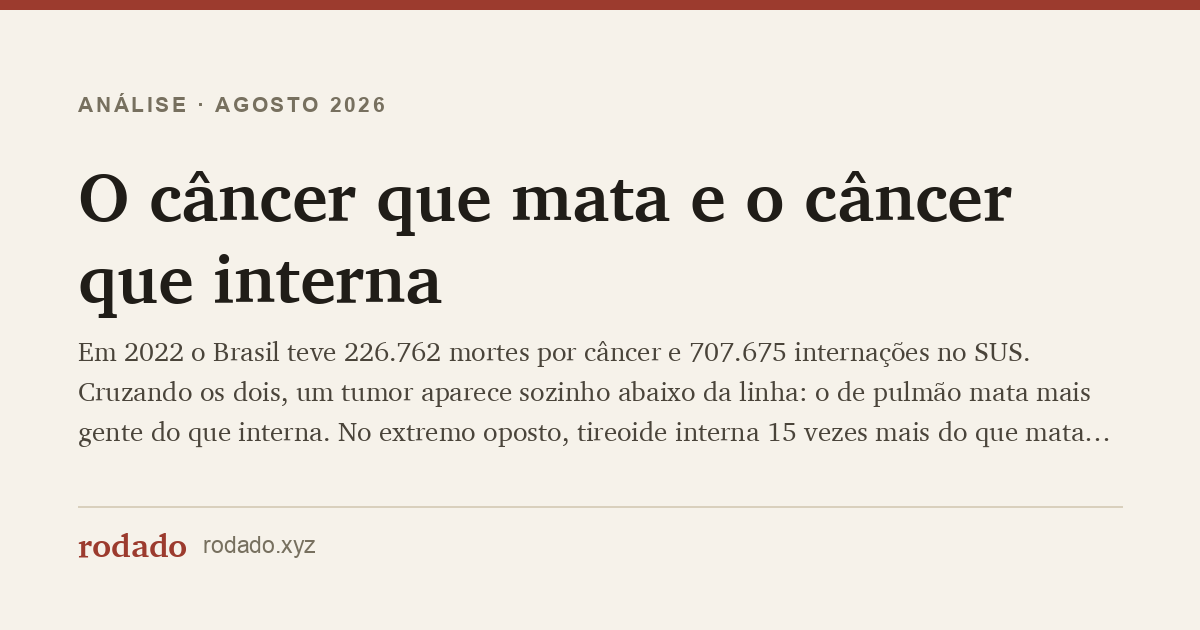
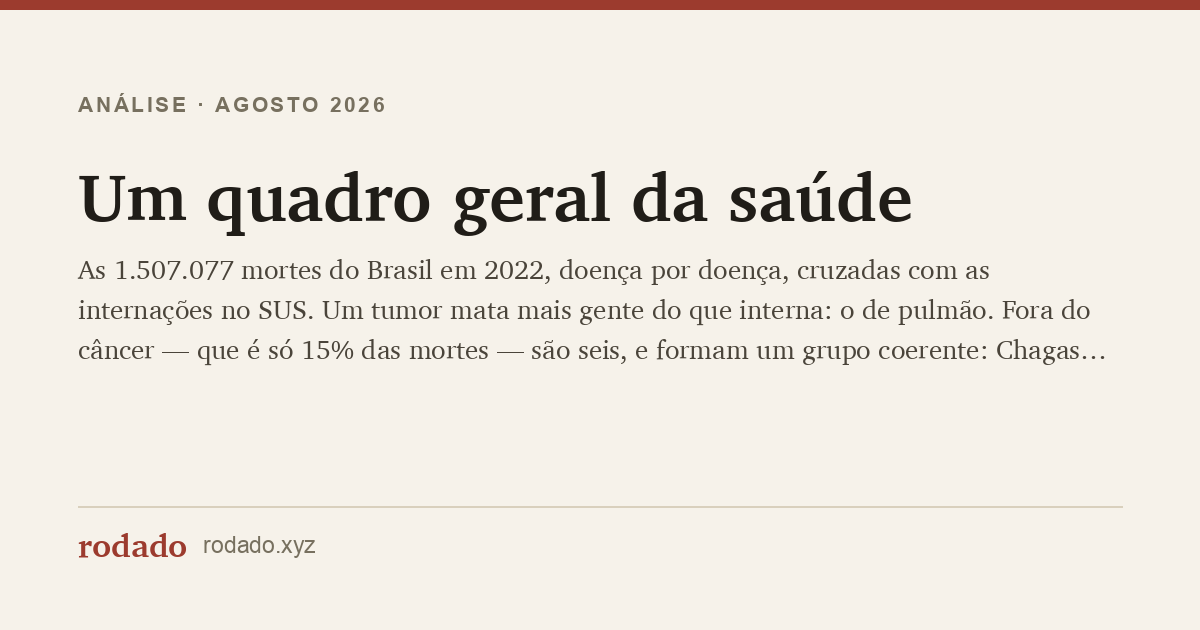
refactor: retitula para "Um quadro geral da saúde" e reorganiza os capítulos
O texto deixou de ser sobre câncer quando ganhou as 1.275.091 mortes não-
câncer: o título e a abertura agora anunciam o país inteiro, e o câncer vira
o ponto de partida em vez do assunto.

Remove "A tabela inteira" — os 27 tumores já estão nas duas figuras, com
mortes, internações, razão e amplitude etária. A metodologia que só existia
no rodapé dela (sítios de sexo único, sítio mal definido, cobertura das
idades) migra para "O que este gráfico não enxerga".

Move "Próstata e mama" para dentro de "Em que idade cada câncer mata": o
argumento é de padronização etária e estava interrompendo o fio da razão
entre internação e morte.

diff --git a/pages/analises/cancer-mata-interna/index.html b/pages/analises/cancer-mata-interna/index.html
@@ -4,23 +4,23 @@
 <meta charset="utf-8">
 <meta name="viewport" content="width=device-width, initial-scale=1">
 <!-- gerado por scripts/gera_analises.py — não editar à mão -->
-<title>O câncer que mata e o câncer que interna — rodado</title>
-<meta name="description" content="Em 2022 o Brasil teve 226.762 mortes por câncer e 707.675 internações no SUS. Cruzando os dois, um tumor aparece sozinho abaixo da linha: o de pulmão mata mais gente do que interna. No extremo oposto, tireoide interna 15 vezes mais do que mata — e isso não é vitória da medicina. E fora do câncer, que é só 15% das mortes do país, a linha tem seis: Chagas, Parkinson e Alzheimer matam mais gente do que chegam a internar, porque para elas o hospital não tem oferta.">
+<title>Um quadro geral da saúde — rodado</title>
+<meta name="description" content="As 1.507.077 mortes do Brasil em 2022, doença por doença, cruzadas com as internações no SUS. Um tumor mata mais gente do que interna: o de pulmão. Fora do câncer — que é só 15% das mortes — são seis, e formam um grupo coerente: Chagas, Parkinson, Alzheimer, pneumonite por aspiração, sequelas de AVC e hipertensão, doenças para as quais o hospital não tem oferta. E a idade separa tudo, de 0 a 86 anos.">
 <!-- seo:start (gerado por scripts/gera_seo.py — não editar à mão) -->
 <link rel="canonical" href="https://rodado.xyz/analises/cancer-mata-interna/">
 <meta property="og:type" content="article">
 <meta property="og:site_name" content="rodado">
 <meta property="og:locale" content="pt_BR">
 <meta property="og:url" content="https://rodado.xyz/analises/cancer-mata-interna/">
-<meta property="og:title" content="O câncer que mata e o câncer que interna">
-<meta property="og:description" content="Em 2022 o Brasil teve 226.762 mortes por câncer e 707.675 internações no SUS. Cruzando os dois, um tumor aparece sozinho abaixo da linha: o de pulmão mata mais gente do que interna. No extremo oposto, tireoide interna 15 vezes mais do que mata — e isso não é vitória da medicina. E fora do câncer, que é só 15% das mortes do país, a linha tem seis: Chagas, Parkinson e Alzheimer matam mais gente do que chegam a internar, porque para elas o hospital não tem oferta.">
+<meta property="og:title" content="Um quadro geral da saúde">
+<meta property="og:description" content="As 1.507.077 mortes do Brasil em 2022, doença por doença, cruzadas com as internações no SUS. Um tumor mata mais gente do que interna: o de pulmão. Fora do câncer — que é só 15% das mortes — são seis, e formam um grupo coerente: Chagas, Parkinson, Alzheimer, pneumonite por aspiração, sequelas de AVC e hipertensão, doenças para as quais o hospital não tem oferta. E a idade separa tudo, de 0 a 86 anos.">
 <meta property="og:image" content="https://rodado.xyz/analises/img/og-cancer-mata-interna.png">
 <meta property="og:image:width" content="1200">
 <meta property="og:image:height" content="630">
-<meta property="og:image:alt" content="O câncer que mata e o câncer que interna — rodado">
+<meta property="og:image:alt" content="Um quadro geral da saúde — rodado">
 <meta name="twitter:card" content="summary_large_image">
-<meta name="twitter:title" content="O câncer que mata e o câncer que interna">
-<meta name="twitter:description" content="Em 2022 o Brasil teve 226.762 mortes por câncer e 707.675 internações no SUS. Cruzando os dois, um tumor aparece sozinho abaixo da linha: o de pulmão mata mais gente do que interna. No extremo oposto, tireoide interna 15 vezes mais do que mata — e isso não é vitória da medicina. E fora do câncer, que é só 15% das mortes do país, a linha tem seis: Chagas, Parkinson e Alzheimer matam mais gente do que chegam a internar, porque para elas o hospital não tem oferta.">
+<meta name="twitter:title" content="Um quadro geral da saúde">
+<meta name="twitter:description" content="As 1.507.077 mortes do Brasil em 2022, doença por doença, cruzadas com as internações no SUS. Um tumor mata mais gente do que interna: o de pulmão. Fora do câncer — que é só 15% das mortes — são seis, e formam um grupo coerente: Chagas, Parkinson, Alzheimer, pneumonite por aspiração, sequelas de AVC e hipertensão, doenças para as quais o hospital não tem oferta. E a idade separa tudo, de 0 a 86 anos.">
 <meta name="twitter:image" content="https://rodado.xyz/analises/img/og-cancer-mata-interna.png">
 <link rel="icon" href="../../assets/favicon.ico" sizes="any">
 <link rel="icon" type="image/png" sizes="32x32" href="../../assets/favicon-32.png">
@@ -29,7 +29,7 @@
 <link rel="manifest" href="https://rodado.xyz/site.webmanifest">
 <meta name="theme-color" content="#9c3b2e">
 <meta name="robots" content="index,follow,max-image-preview:large,max-snippet:-1">
-<script type="application/ld+json">{"@context":"https://schema.org","@type":"Article","headline":"O câncer que mata e o câncer que interna","description":"Em 2022 o Brasil teve 226.762 mortes por câncer e 707.675 internações no SUS. Cruzando os dois, um tumor aparece sozinho abaixo da linha: o de pulmão mata mais gente do que interna. No extremo oposto, tireoide interna 15 vezes mais do que mata — e isso não é vitória da medicina. E fora do câncer, que é só 15% das mortes do país, a linha tem seis: Chagas, Parkinson e Alzheimer matam mais gente do que chegam a internar, porque para elas o hospital não tem oferta.","url":"https://rodado.xyz/analises/cancer-mata-interna/","image":"https://rodado.xyz/analises/img/og-cancer-mata-interna.png","datePublished":"2026-08","inLanguage":"pt-BR","author":{"@type":"Organization","name":"rodado"},"isPartOf":{"@type":"WebSite","name":"rodado","url":"https://rodado.xyz/"}}</script>
+<script type="application/ld+json">{"@context":"https://schema.org","@type":"Article","headline":"Um quadro geral da saúde","description":"As 1.507.077 mortes do Brasil em 2022, doença por doença, cruzadas com as internações no SUS. Um tumor mata mais gente do que interna: o de pulmão. Fora do câncer — que é só 15% das mortes — são seis, e formam um grupo coerente: Chagas, Parkinson, Alzheimer, pneumonite por aspiração, sequelas de AVC e hipertensão, doenças para as quais o hospital não tem oferta. E a idade separa tudo, de 0 a 86 anos.","url":"https://rodado.xyz/analises/cancer-mata-interna/","image":"https://rodado.xyz/analises/img/og-cancer-mata-interna.png","datePublished":"2026-08","inLanguage":"pt-BR","author":{"@type":"Organization","name":"rodado"},"isPartOf":{"@type":"WebSite","name":"rodado","url":"https://rodado.xyz/"}}</script>
 <!-- seo:end -->
 <!-- a linha do site.css é marca do bloco comum: o gera_seo.py a substitui pelo
      bloco inteiro aqui, e não no fim do <head>, para o analises.css abaixo

diff --git a/pages/analises/results/cancer-mata-interna.md b/pages/analises/results/cancer-mata-interna.md
@@ -1,8 +1,15 @@
-# O câncer que mata e o câncer que interna
+# Um quadro geral da saúde
 
-Em 2022 o Brasil enterrou 226.762 pessoas por causa de um câncer — uma em cada sete mortes
-do ano, qualquer que fosse a causa. No mesmo ano, os hospitais públicos registraram 707.675
-internações por câncer. A conta dá pouco mais de três internações para cada morte.
+Em 2022 morreram 1.507.077 pessoas no Brasil. Todas deixaram um registro com a causa, a
+idade, o município e a data — e é possível perguntar a esse registro duas coisas de cada
+doença do país: **quantos ela mata e quantos ela interna**. A razão entre as duas é uma
+radiografia do que o sistema de saúde consegue fazer.
+
+Começa pelo câncer, que é 15,4% dessas mortes, e termina em todo o resto.
+
+226.762 dessas mortes foram por câncer — uma em cada sete. No mesmo ano, os hospitais
+públicos registraram 707.675 internações por tumor: pouco mais de três internações para cada
+morte.
 
 A média, como sempre, esconde o que interessa. Porque existe um câncer no Brasil que quebra
 essa proporção de um jeito assustador: ele mata mais gente do que interna.
@@ -110,26 +117,6 @@ O mesmo raciocínio vale para o **câncer de pele não melanoma (17,50)**, campe
 razão: é o tumor mais comum do país, resolvido quase sempre com uma excisão, e responsável
 por uma fatia mínima das mortes.
 
-## Próstata e mama: um empate escondido pela idade
-
-Reparou que a mama aparece mais à direita que a próstata no gráfico — ou seja, matando
-mais? É verdade em números brutos, e é um bom exemplo de como a idade distorce comparações.
-
-| | Mortes | Taxa bruta /100 mil | Taxa padronizada por idade /100 mil |
-|---|---:|---:|---:|
-| Mama | 18.383 | 17,24 | **12,88** |
-| Próstata | 15.382 | 15,53 | **12,88** |
-
-Padronizadas pela População Padrão Mundial da OMS — o método que neutraliza a estrutura
-etária —, as duas empatam. A explicação está em *quando* cada uma mata: **62,7% das mortes
-por próstata acontecem dos 75 anos em diante** (25,5% só na faixa de 85+), contra 24,4% no
-câncer de mama, que mata espalhado a partir dos 50. Como há muito mais brasileiro de 50 a 70
-anos do que de 85+, a taxa bruta favorece a mama.
-
-Isso também explica a fama do câncer de próstata como "câncer bonzinho". Boa parte dos
-tumores detectados por PSA cresce tão devagar que o homem morre com o tumor, não por causa
-dele. Que é exatamente o mesmo mecanismo de sobrediagnóstico da tireoide, com outro nome.
-
 ## O câncer que não deveria estar neste gráfico
 
 **Colo do útero: 6.601 mortes.**
@@ -150,7 +137,7 @@ Passando o olho na lista inteira, a maioria dos tumores mais letais do país tem
 externa identificada — e em boa parte evitável:
 
 - **Tabaco** — pulmão, laringe, faringe, esôfago, boca, bexiga, rim, pâncreas. É o fator de
-  risco isolado que mais aparece na tabela. O Brasil derrubou o consumo de cigarro de forma
+  risco isolado que mais se repete na lista. O Brasil derrubou o consumo de cigarro de forma
   drástica desde os anos 1980, mas o câncer de pulmão tem latência de duas a três décadas:
   as mortes de hoje refletem o cigarro de ontem, e a queda ainda está por vir.
 - **Álcool** — boca, faringe, laringe, esôfago, fígado, mama e intestino. Combinado com
@@ -201,9 +188,30 @@ O mapa de calor mostra o formato, não só a posição. **Leucemia é o tumor qu
 de mama. Testículo é o oposto de tudo — a mancha some depois dos 45. E próstata, bexiga e pele
 não melanoma praticamente não existem antes dos 60.
 
+### Próstata e mama: um empate escondido pela idade
+
+Reparou que a mama aparece mais à direita que a próstata no gráfico — ou seja, matando
+mais? É verdade em números brutos, e é um bom exemplo de como a idade distorce comparações.
+
+| | Mortes | Taxa bruta /100 mil | Taxa padronizada por idade /100 mil |
+|---|---:|---:|---:|
+| Mama | 18.383 | 17,24 | **12,88** |
+| Próstata | 15.382 | 15,53 | **12,88** |
+
+Padronizadas pela População Padrão Mundial da OMS — o método que neutraliza a estrutura
+etária —, as duas empatam. A explicação está em *quando* cada uma mata: **62,7% das mortes
+por próstata acontecem dos 75 anos em diante** (25,5% só na faixa de 85+), contra 24,4% no
+câncer de mama, que mata espalhado a partir dos 50. Como há muito mais brasileiro de 50 a 70
+anos do que de 85+, a taxa bruta favorece a mama.
+
+Isso também explica a fama do câncer de próstata como "câncer bonzinho". Boa parte dos
+tumores detectados por PSA cresce tão devagar que o homem morre com o tumor, não por causa
+dele. Que é exatamente o mesmo mecanismo de sobrediagnóstico da tireoide, com outro nome.
+
 ### Um aviso sobre as idades extremas
 
-As colunas de idade mínima e máxima da tabela abaixo pedem cautela, por duas razões.
+Os traços finos do gráfico de amplitude — a idade do óbito mais novo e do mais velho de cada
+tumor — pedem cautela, por duas razões.
 
 A primeira é que **o registro de idade do SIM tem lixo**. Em 2022, 6.528 óbitos (0,44% do total)
 saem com idade impossível — de 116 até 220 anos. Não são supercentenários: a distribuição desses
@@ -236,47 +244,14 @@ Vale explicitar as fronteiras do dado, porque elas mudam a leitura:
   É um retrato do que o sistema de saúde faz, não de quantos adoecem.
 - **As taxas do gráfico são brutas.** Comparam-se entre si, porque todos os tumores dividem
   pela mesma população no mesmo ano — mas não se comparam com séries internacionais
-  padronizadas por idade.
-
-## A tabela inteira
-
-Ordenada da pior para a melhor razão entre internações e mortes.
-
-| Tipo de câncer | Mortes | Internações | Mortes /100 mil | Internações /100 mil | Internações por morte | Idade média | Mais novo | Mais velho |
-|---|---:|---:|---:|---:|---:|---:|---:|---:|
-| Traqueia, brônquios e pulmão | 28.166 | 26.892 | 13,87 | 13,24 | **0,95** | 69,5 | 0 | 114 |
-| Fígado e vias biliares | 10.061 | 11.258 | 4,95 | 5,54 | **1,12** | 67,9 | 0 | 115 |
-| Pâncreas | 11.969 | 16.151 | 5,89 | 7,95 | **1,35** | 69,4 | 0 | 115 |
-| Vesícula e vias biliares | 3.828 | 6.482 | 1,88 | 3,19 | **1,70** | 68,8 | 23 | 107 |
-| Cérebro e sistema nervoso | 9.410 | 19.201 | 4,63 | 9,45 | **2,04** | 59,2 | 0 | 114 |
-| Esôfago | 8.108 | 17.298 | 3,99 | 8,52 | **2,14** | 66,0 | 17 | 112 |
-| Próstata | 15.382 | 35.065 | 15,61 | 35,59 | **2,28** | 77,3 | 1 | 115 |
-| Mieloma múltiplo | 3.558 | 8.435 | 1,75 | 4,15 | **2,37** | 69,1 | 10 | 106 |
-| Estômago | 13.574 | 33.267 | 6,68 | 16,38 | **2,45** | 67,2 | 14 | 115 |
-| Faringe | 3.656 | 9.959 | 1,80 | 4,90 | **2,72** | 63,4 | 7 | 114 |
-| Laringe | 4.359 | 12.161 | 2,15 | 5,99 | **2,79** | 66,0 | 4 | 113 |
-| Rim e vias urinárias | 4.032 | 11.718 | 1,99 | 5,77 | **2,90** | 67,5 | 0 | 115 |
-| Corpo do útero | 4.018 | 11.827 | 3,84 | 11,31 | **2,95** | 65,6 | 16 | 105 |
-| Ovário | 3.986 | 13.562 | 3,81 | 12,97 | **3,40** | 63,0 | 14 | 104 |
-| Lábio e cavidade oral | 3.621 | 13.133 | 1,78 | 6,47 | **3,63** | 65,4 | 0 | 110 |
-| Colo do útero | 6.601 | 26.261 | 6,31 | 25,12 | **3,98** | 56,0 | 16 | 113 |
-| Linfoma não Hodgkin | 4.277 | 17.831 | 2,11 | 8,78 | **4,16** | 63,7 | 1 | 112 |
-| Melanoma de pele | 1.868 | 8.038 | 0,92 | 3,96 | **4,30** | 66,9 | 6 | 110 |
-| Mama | 18.383 | 79.249 | 17,58 | 75,80 | **4,31** | 62,7 | 0 | 114 |
-| Bexiga | 4.877 | 21.476 | 2,40 | 10,58 | **4,41** | 75,1 | 12 | 112 |
-| Cólon | 13.155 | 59.746 | 6,48 | 29,42 | **4,54** | 68,5 | 12 | 110 |
-| Reto e ânus | 7.960 | 37.836 | 3,92 | 18,63 | **4,75** | 66,7 | 2 | 109 |
-| Leucemia | 6.715 | 40.052 | 3,31 | 19,72 | **5,96** | 58,4 | 0 | 115 |
-| Testículo | 446 | 3.698 | 0,45 | 3,75 | **8,33** | 38,3 | 4 | 97 |
-| Linfoma de Hodgkin | 532 | 5.218 | 0,26 | 2,57 | **9,88** | 52,3 | 3 | 96 |
-| Tireoide | 808 | 12.315 | 0,40 | 6,06 | **15,15** | 68,9 | 17 | 115 |
-| Pele não melanoma | 2.947 | 51.519 | 1,45 | 25,37 | **17,50** | 77,1 | 1 | 110 |
-
-Tumores de sítio mal definido ou secundário ficam de fora da tabela por não nomearem um órgão
-de origem. Sítios exclusivos de um sexo usam como denominador a população daquele sexo. As três
-colunas de idade são calculadas só sobre os óbitos com idade válida — de fora ficam os 2,4% sem
-idade preenchida e os 0,44% com idade impossível —, por isso elas descrevem um conjunto
-ligeiramente menor que a coluna de mortes.
+  padronizadas por idade. Sítios exclusivos de um sexo usam como denominador a população
+  daquele sexo.
+- **Tumores de sítio mal definido ou secundário ficam de fora.** São os códigos que registram
+  metástase sem nomear o órgão de origem, e por isso não cabem numa lista organizada por
+  sítio.
+- **As idades descrevem um conjunto ligeiramente menor que as mortes.** São calculadas só
+  sobre os óbitos com idade válida: de fora ficam os 2,4% sem idade preenchida e os 0,44% com
+  idade impossível.
 
 ## E quando não é câncer
 
